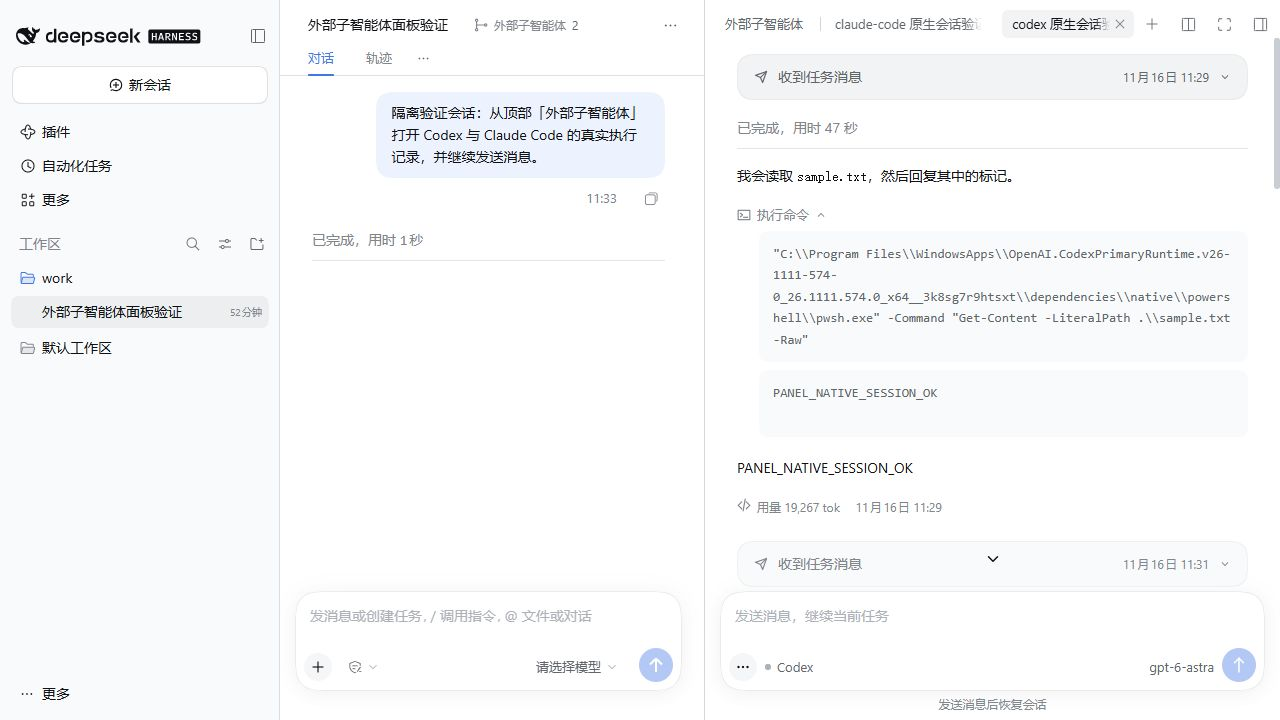
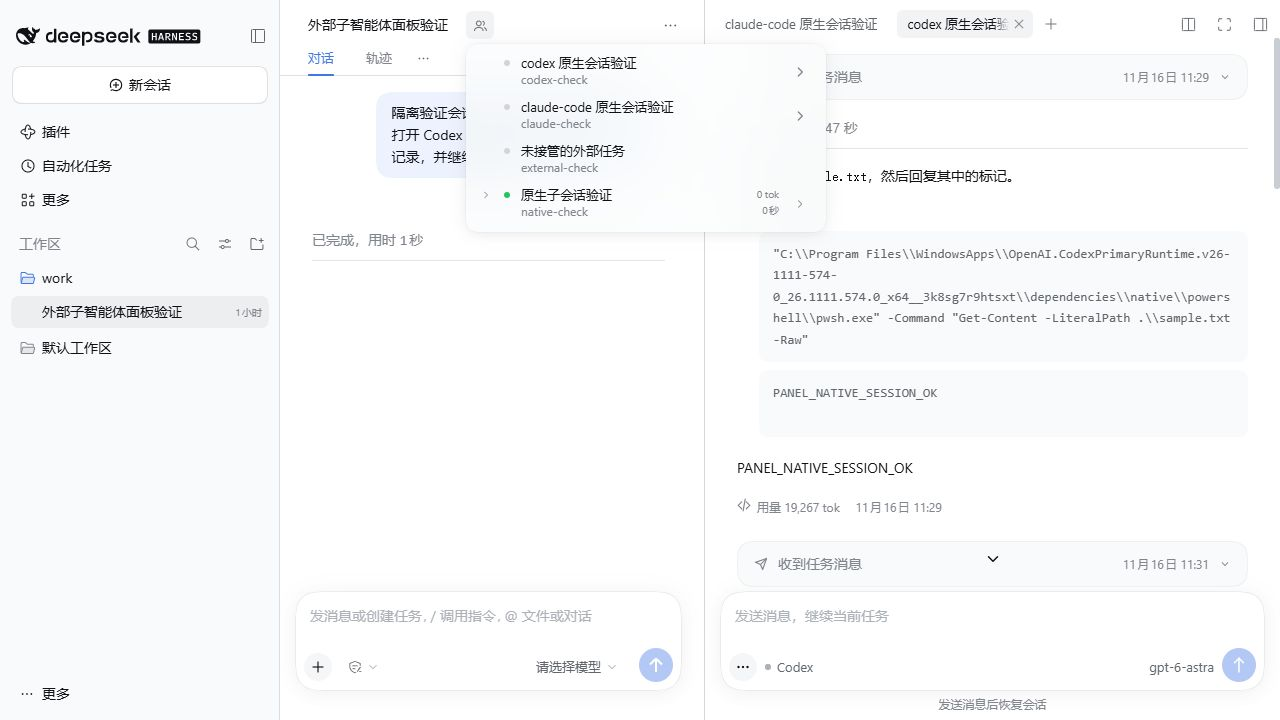
feat(ui): 将外部子智能体入口接入原生列表
- 在原生任务条目补充侧栏箭头，移除独立按钮和重复列表入口
- 支持子会话目录、嵌套任务、同名任务及键盘打开
- 更新使用文档、深浅色截图和本地验证记录

diff --git a/src/client/index.tsx b/src/client/index.tsx
@@ -6,6 +6,7 @@ import { PACKAGE, type Conversation, type ConversationSummary, type TranscriptIt
 import { endpoint, parseResource, request, resource, usePolling } from './api.js';
 import { styles } from './style.js';
 import { timeline } from './timeline.js';
+import { NativeCatalog, type CatalogProps, type LineageProps } from './catalog.js';
 
 export const name = PACKAGE;
 export const inject = ['dshLoaderUi', 'slots', 'sidebarRight', 'sidebarRightTabs'];
@@ -16,7 +17,15 @@ interface ClientContext {
 }
 interface Slots {
   inject(name: string, callback: () => (() => void)): () => void;
-  register(options: { name: string; id?: string; key?: string; order?: number }, component: React.ComponentType<any>): () => void;
+  register(options: { name: string; id?: string; key?: string; order?: number; priority?: number; inject?: (...args: any[]) => object; locale?: string }, component: React.ComponentType<any>): () => void;
+  entries(name: string): SlotEntry[];
+  subscribe(name: string, listener: () => void): () => void;
+}
+interface SlotEntry {
+  component: React.ComponentType<LineageProps>;
+  options: { id?: string; key?: string; order?: number; priority?: number };
+  inject?: (...args: any[]) => object;
+  locale?: string;
 }
 interface Sidebar {
   openResource(address: string, options: { kind: string; preferNewPane?: boolean }): void;
@@ -25,7 +34,7 @@ interface Tabs {
   register(options: { id: string; kind: string; keepMounted: boolean; patterns: string[]; title(address: string): string; canOpen(address: string): boolean }): () => void;
 }
 
-/** 通过官方槽位注册右侧标签页，以及会话标题栏和原生子智能体菜单入口。 */
+/** 通过官方槽位注册右侧标签页，并为原生目录中的外部任务补充打开入口。 */
 export function apply(ctx: ClientContext): void {
   const service = <T,>(key: string): T => {
     const value = ctx.dshLoaderUi.services?.get(key);
@@ -37,23 +46,55 @@ export function apply(ctx: ClientContext): void {
   const slots = service<Slots>('slots');
   const sidebar = service<Sidebar>('sidebarRight');
   const tabs = service<Tabs>('sidebarRightTabs');
-  const open = (parent: string, task?: ConversationSummary) => sidebar.openResource(resource(parent, task?.id, task?.title), { kind: 'external-subagent', preferNewPane: false });
-  function Launcher({ sessionId }: { sessionId: string }): React.ReactElement {
-    const { value, error } = usePolling<{ tasks: ConversationSummary[] }>(endpoint(sessionId));
-    const count = value?.tasks.filter(task => task.status === 'running' || task.status === 'starting').length ?? 0;
-    return <button type="button" className="dsp-button dsp-launcher" onClick={() => { open(sessionId); }} title={error || '在侧边栏查看 Codex 和 Claude Code 的执行过程'}>
-      <Icon name="GitBranch" size={14} /> 外部子智能体 <span className="dsp-count">{count || value?.tasks.length || 0}</span>
-    </button>;
+  const open = (parent: string, task: ConversationSummary) => sidebar.openResource(resource(parent, task.id, task.title), { kind: 'external-subagent', preferNewPane: false });
+  function Catalog(props: CatalogProps): React.ReactElement {
+    return <NativeCatalog {...props} ui={ctx.dshLoaderUi} open={open} />;
   }
-  function Footer({ sessionId }: { sessionId: string }): React.ReactElement | null {
-    const { value } = usePolling<{ tasks: ConversationSummary[] }>(endpoint(sessionId));
-    if (!value?.tasks.length) {
-      return null;
+  const decorateLineage = () => {
+    const slot = 'conversation.session.header.lineage';
+    let original: SlotEntry | undefined;
+    let decorated: React.ComponentType<LineageProps> | undefined;
+    let dispose: (() => void) | undefined;
+    let changing = false;
+    const sync = () => {
+      if (changing) { return; }
+      const entries = slots.entries(slot);
+      if (original && entries.includes(original)) { return; }
+      const entry = entries.find(entry => entry.locale === 'subagent' && entry.component !== decorated);
+      if (entry === original) { return; }
+      changing = true;
+      try {
+        dispose?.();
+        dispose = undefined;
+        original = entry;
+        if (!entry) { return; }
+        const Original = entry.component;
+        decorated = function Lineage(props: LineageProps) {
+          const address = props.useSession(state => state.subagent?.address);
+          const parent = props.useSessions(state => {
+            if (address?.childSessionId === props.lineageSessionId) { return address.parentSessionId; }
+            const owner = Object.entries(state.projectionsBySession).find(([, snapshot]) => snapshot?.values.subagentCatalog?.some(child => child.id === props.lineageSessionId));
+            if (owner) { return owner[0]; }
+            const summary = state.byId[props.lineageSessionId];
+            return summary?.origin === 'subagent' ? summary.parentId : undefined;
+          });
+          return <span data-dsp-lineage="" style={{ display: 'contents' }}><Original {...props} /><NativeCatalog {...props} sessionId={props.lineageSessionId} parentSessionId={parent} lineage ui={ctx.dshLoaderUi} open={open} /></span>;
+        };
+        dispose = slots.register({ name: slot, ...entry.options, priority: (entry.options.priority ?? 0) - 1, inject: entry.inject, locale: entry.locale }, decorated);
+      } finally {
+        changing = false;
+      }
+    };
+    const off = slots.subscribe(slot, sync);
+    try {
+      sync();
+    } catch (error) {
+      off();
+      dispose?.();
+      throw error;
     }
-    return <div className="dsp-footer">{value.tasks.slice(0, 6).map(task => <button key={task.id} type="button" className="dsp-button" onClick={() => { open(sessionId, task); }}>
-      <span className={`dsp-dot ${task.status}`} /><span className="dsp-task-title">{task.title}</span><span className="dsp-meta">{statusLabel(task.status)}</span>
-    </button>)}<button type="button" className="dsp-button" onClick={() => { open(sessionId); }}>查看全部外部子智能体</button></div>;
-  }
+    return () => { off(); dispose?.(); };
+  };
   function Tab({ useTabInfo }: { useTabInfo(): { tab: { contentId: string; visible: boolean } } }): React.ReactElement {
     const { tab } = useTabInfo();
     const address = parseResource(tab.contentId);
@@ -65,8 +106,8 @@ export function apply(ctx: ClientContext): void {
   ctx.effect(() => injectStyle(name, 'panel.css', styles), 'subagent-panel:styles');
   ctx.effect(() => tabs.register({ id: name, kind: 'external-subagent', keepMounted: true, patterns: ['dsh-resource://external-subagent/**'], title: address => parseResource(address)?.title || '外部子智能体', canOpen: address => !!parseResource(address) }), 'subagent-panel:tabs');
   ctx.effect(() => slots.inject('sidebar.right.pane.tab', () => slots.register({ name: 'sidebar.right.pane.tab', key: name }, Tab)), 'subagent-panel:body');
-  ctx.effect(() => slots.inject('conversation.session.header.actions', () => slots.register({ name: 'conversation.session.header.actions', id: name, order: 11 }, Launcher)), 'subagent-panel:launcher');
-  ctx.effect(() => slots.inject('conversation.session.header.actions.subagent.footer', () => slots.register({ name: 'conversation.session.header.actions.subagent.footer', id: name }, Footer)), 'subagent-panel:catalog');
+  ctx.effect(() => slots.inject('conversation.session.header.actions', () => slots.register({ name: 'conversation.session.header.actions', id: name, order: 11 }, Catalog)), 'subagent-panel:catalog');
+  ctx.effect(() => slots.inject('conversation.session.header.lineage', decorateLineage), 'subagent-panel:lineage');
 }
 
 function TaskList({ parent, open }: { parent: string; open(task: ConversationSummary): void }): React.ReactElement {

diff --git a/src/client/catalog.tsx b/src/client/catalog.tsx
@@ -1,0 +1,144 @@
+import * as React from 'react';
+import { createPortal } from 'react-dom';
+import { Icon, type DshLoaderUi } from '@dsh-plugin/dsh-loader/client';
+import type { ConversationSummary } from '../model.js';
+import { endpoint, usePolling } from './api.js';
+
+interface CatalogEntry {
+  id: string;
+  mode: string;
+  name?: string;
+  label?: string;
+}
+
+interface CatalogState {
+  projectionsBySession: Record<string, { values: { subagentCatalog?: CatalogEntry[] } } | undefined>;
+  byId: Record<string, { title?: string; origin?: string; parentId?: string } | undefined>;
+}
+
+/** 原生槽位提供所属会话与目录快照，避免跨会话按同名任务匹配。 */
+export interface CatalogProps {
+  sessionId: string;
+  useSessions<T>(select: (state: CatalogState) => T): T;
+}
+
+/** 原生面包屑同时展示当前子会话及其父会话的目录。 */
+export interface LineageProps extends CatalogProps {
+  lineageSessionId: string;
+  useSession<T>(select: (state: { subagent: { address: { parentSessionId: string; childSessionId: string } } | null }) => T): T;
+}
+
+interface CatalogTarget {
+  anchor: string;
+  parent: string;
+  id: string;
+  row: HTMLElement;
+  seat: Element;
+}
+
+/** 在原生外部条目的箭头预留位置挂载入口，保留宿主目录的内容与排序。 */
+export function NativeCatalog({ sessionId, useSessions, parentSessionId, lineage, ui, open }: CatalogProps & {
+  parentSessionId?: string;
+  lineage?: boolean;
+  ui: DshLoaderUi;
+  open(parent: string, task: ConversationSummary): void;
+}): React.ReactElement {
+  const marker = React.useRef<HTMLSpanElement>(null);
+  const projections = useSessions(state => state.projectionsBySession);
+  const summaries = useSessions(state => state.byId);
+  const [targets, setTargets] = React.useState<CatalogTarget[]>([]);
+  React.useLayoutEffect(() => {
+    const sync = () => {
+      const scope = marker.current?.closest(lineage ? '[data-dsp-lineage]' : '[data-slot="conversation.session.header.actions"]');
+      const next: CatalogTarget[] = [];
+      const visit = (parent: string, group: Element, anchor: string) => {
+        const entries = projections[parent]?.values.subagentCatalog ?? [];
+        const rows = Array.from(group.querySelectorAll<HTMLElement>(':scope > div > [role="treeitem"]'));
+        if (rows.length !== entries.length) {
+          return;
+        }
+        entries.forEach((entry, index) => {
+          const row = rows[index];
+          const area = row.lastElementChild;
+          const content = area?.children[1];
+          const identity = entry.mode === 'external' || entry.mode === 'continuable' ? entry.name ?? entry.id : entry.id;
+          const description = entry.label || summaries[entry.id]?.title;
+          const labels = description ? [description, identity] : [identity];
+          if (!content || content.children.length !== labels.length || labels.some((label, i) => content.children[i].textContent !== label)) {
+            return;
+          }
+          if (entry.mode === 'external') {
+            const seat = area?.lastElementChild;
+            if (seat?.tagName === 'SPAN' && !seat.hasAttribute('data-subagent-current')) {
+              next.push({ anchor, parent, id: entry.id, row, seat });
+            }
+          } else if (row.getAttribute('aria-expanded') === 'true') {
+            const children = row.parentElement?.querySelector(':scope > [role="group"]');
+            if (children) {
+              visit(entry.id, children, anchor);
+            }
+          }
+        });
+      };
+      for (const button of scope?.querySelectorAll<HTMLElement>('[data-subagent-action] button[aria-haspopup="dialog"]') ?? []) {
+        const parent = button.querySelector('[data-subagent-count]') ? sessionId : parentSessionId;
+        const anchor = button.style.getPropertyValue('anchor-name');
+        const menu = Array.from(document.querySelectorAll<HTMLElement>('[data-subagent-panel]')).find(menu => menu.style.getPropertyValue('position-anchor') === anchor);
+        const tree = menu?.querySelector('[role="tree"]');
+        if (parent && anchor && tree) {
+          visit(parent, tree, anchor);
+        }
+      }
+      setTargets(current => current.length === next.length && current.every((target, i) => target.anchor === next[i].anchor && target.parent === next[i].parent && target.id === next[i].id && target.row === next[i].row && target.seat === next[i].seat) ? current : next);
+    };
+    sync();
+    return ui.onDomSettled(sync);
+  }, [sessionId, parentSessionId, lineage, projections, summaries, ui]);
+  const parents = [...new Set(targets.map(target => target.parent))];
+  return <><span ref={marker} hidden />{parents.map(parent => <CatalogArrows key={parent} parent={parent} targets={targets.filter(target => target.parent === parent)} open={open} />)}</>;
+}
+
+function CatalogArrows({ parent, targets, open }: {
+  parent: string;
+  targets: CatalogTarget[];
+  open(parent: string, task: ConversationSummary): void;
+}): React.ReactElement {
+  const { value } = usePolling<{ tasks: ConversationSummary[] }>(endpoint(parent));
+  return <>{targets.map(target => {
+    const task = value?.tasks.find(task => task.id === target.id);
+    return task ? <CatalogArrow key={`${target.anchor}:${target.id}`} target={target} task={task} open={open} /> : null;
+  })}</>;
+}
+
+function CatalogArrow({ target, task, open }: {
+  target: CatalogTarget;
+  task: ConversationSummary;
+  open(parent: string, task: ConversationSummary): void;
+}): React.ReactPortal {
+  const activate = React.useCallback(() => {
+    open(target.parent, task);
+    target.row.dispatchEvent(new KeyboardEvent('keydown', { key: 'Escape', bubbles: true }));
+  }, [open, target, task]);
+  React.useEffect(() => {
+    const { row } = target;
+    const disabled = row.getAttribute('aria-disabled');
+    const tabIndex = row.getAttribute('tabindex');
+    const keydown = (event: KeyboardEvent) => {
+      if (event.target === row && (event.key === 'Enter' || event.key === ' ')) {
+        event.preventDefault();
+        event.stopPropagation();
+        activate();
+      }
+    };
+    row.setAttribute('aria-disabled', 'false');
+    row.tabIndex = 0;
+    row.addEventListener('keydown', keydown, true);
+    return () => {
+      row.removeEventListener('keydown', keydown, true);
+      if (disabled === null) { row.removeAttribute('aria-disabled'); } else { row.setAttribute('aria-disabled', disabled); }
+      if (tabIndex === null) { row.removeAttribute('tabindex'); } else { row.setAttribute('tabindex', tabIndex); }
+    };
+  }, [target, activate]);
+  return createPortal(<button type="button" className="dsp-catalog-arrow" aria-label={`在侧边栏打开 ${task.title}`} title="在侧边栏打开"
+    onClick={event => { event.preventDefault(); event.stopPropagation(); activate(); }} onKeyDown={event => { event.stopPropagation(); }}><Icon name="ChevronRight" size={16} /></button>, target.seat);
+}

diff --git a/src/client/style.ts b/src/client/style.ts
@@ -8,8 +8,11 @@ export const styles = `
 .dsp-button:focus-visible,.dsp-task:focus-visible,.dsp-item>summary:focus-visible{outline:1.5px solid var(--dsw-alias-state-business-primary);outline-offset:2px}
 .dsp-icon-button{flex:none;width:28px;height:28px;padding:0}
 .dsp-menu-trigger{border-radius:999px;corner-shape:round;background:var(--dsw-specific-selector);color:var(--dsw-alias-label-primary)}
-.dsp-launcher{font-size:12px;color:var(--dsw-alias-label-tertiary)}
-.dsp-count{font-variant-numeric:tabular-nums;color:var(--dsw-alias-label-secondary)}
+.dsp-catalog-arrow{box-sizing:border-box;display:inline-flex;align-items:center;justify-content:center;width:28px;height:28px;padding:6px;border:0;border-radius:var(--dsw-radius-sm);background:transparent;color:var(--dsw-alias-label-tertiary);cursor:pointer}
+.dsp-catalog-arrow>.i-icon{display:inline-flex;line-height:0}
+.dsp-catalog-arrow svg{display:block}
+.dsp-catalog-arrow:focus-visible{background:var(--dsw-alias-interactive-bg-hover);color:var(--dsw-alias-label-primary)}
+@media(hover:hover){.dsp-catalog-arrow:hover{background:var(--dsw-alias-interactive-bg-hover);color:var(--dsw-alias-label-primary)}}
 .dsp-toolbar{display:flex;align-items:center;gap:12px;padding:12px 16px;flex:none}
 .dsp-heading{min-width:0;flex:1;display:flex;align-items:center;gap:12px;font-weight:500}
 .dsp-meta{font-size:12px;font-weight:400;color:var(--dsw-alias-label-tertiary)}
@@ -69,10 +72,6 @@ export const styles = `
 .dsp-task-copy{display:flex;flex-direction:column;flex:1;min-width:0;gap:2px}
 .dsp-task-title{display:block;min-width:0;overflow:hidden;text-overflow:ellipsis;white-space:nowrap;color:var(--dsw-alias-label-primary)}
 .dsp-task time{flex:none;font-size:12px}
-.dsp-footer{display:flex;flex-direction:column;gap:2px;padding:8px}
-.dsp-footer .dsp-button{justify-content:flex-start;min-height:32px}
-.dsp-footer .dsp-task-title{flex:1;text-align:left}
-.dsp-footer .dsp-meta{white-space:nowrap}
 .dsp-follow{position:absolute;left:50%;bottom:16px;z-index:1;width:34px;height:34px;padding:0;border-radius:999px;corner-shape:round;color:var(--dsw-alias-label-primary);transform:translateX(-50%)}
 .dsp-spinning{animation:dsp-spin 800ms linear infinite}
 @media(hover:hover){.dsp-button:hover:not(:disabled),.dsp-task:hover{background:var(--dsw-alias-interactive-bg-hover)}.dsp-item-user:hover{background:var(--dsw-alias-turn-trigger-bg-hover,var(--dsw-alias-interactive-bg-hover))}.dsp-item>summary:hover{color:var(--dsw-alias-label-secondary)}.dsp-menu-trigger:hover:not(:disabled){background:var(--dsw-alias-interactive-bg-hover-solid)}.dsp-send:hover:not(:disabled){background:var(--dsw-alias-button-info-hover)}.dsp-follow:hover:not(:disabled){background:transparent}}

diff --git a/docs/verification.md b/docs/verification.md
@@ -6,7 +6,7 @@
 | --- | --- |
 | `pnpm check` | 类型检查、12 项协议及时间线回归检查和构建通过 |
 | 实际宿主加载 | 插件正常激活，无加载失败；自定义接口返回 JSON |
-| 原生右侧栏 | 标题栏入口、任务列表、多个任务标签、历史记录、工具折叠和消息输入框可用 |
+| 原生右侧栏 | 原生子智能体列表入口、多个任务标签、历史记录、工具折叠和消息输入框可用 |
 | 首轮任务 | Codex 与 Claude Code 均实际调用工具读取测试文件，面板显示参数、输出及最终回答 |
 | 同一进程续聊 | 两者第二轮均无需再次读文件即可复述首轮标记，原生会话 ID 保持不变 |
 | 释放与重启恢复 | 释放进程并重启 DSH 后，从侧栏发送第三轮消息；两者恢复原生 ID 并保留上下文 |
@@ -26,3 +26,7 @@
 新增时间线回归检查覆盖同毫秒的轮次开始、连续轮次交接、运行中追加与待处理输入。新输入区的发送请求已进入 Codex 原生会话；该次模型连接持续重试，使用停止按钮中断后状态正确回到可恢复。此项仅确认发送与停止交互，模型回复验证以此前多轮结果为准。
 
 按钮修正后重新通过 `pnpm check`，并核对深浅色主题与 335/575 像素侧栏。三点按钮为 28 像素正圆，背景与原生添加按钮一致；发送按钮为 34 像素正圆。按钮图标与消息折叠箭头的垂直中心偏差均为 0 像素。「查看最新输出」移至底部中央，与消息右侧的折叠箭头分开，悬停时仍保持透明背景且无阴影；点击后滚动到末尾并隐藏。菜单刷新操作正常，浏览器控制台无错误，深浅色截图已更新。
+
+入口合并后重新通过 `pnpm check`。在隔离宿主中验证了主会话目录、子会话自身目录、父级切换目录和展开的下级目录：Codex、Claude Code 的箭头分别打开对应侧栏记录；Enter 可直接打开当前外部任务行，打开后原生菜单关闭。没有面板记录的外部条目仍无箭头，原生子会话的导航和侧栏箭头保持可用。
+
+目录验证使用临时插件追加宿主支持的目录事件，并把既有真实执行记录复制为两个同名任务，以核对父会话与任务 ID 的关联；本轮未重新调用模型。两个原生菜单同时展开相同任务时，各行只有一个箭头；关闭其中一个菜单后，另一个仍可打开正确记录。深浅色截图已更新，浏览器控制台无错误。

diff --git a/README.md b/README.md
@@ -12,7 +12,7 @@
 
 | 功能 | 行为 |
 | --- | --- |
-| 会话入口 | 主会话标题栏显示「外部子智能体」和任务数量，点击打开任务列表 |
+| 会话入口 | 在原生「子智能体」列表的外部任务右侧补充打开箭头，保留原列表的名称、顺序和状态 |
 | 右侧标签 | 每个任务使用独立的原生侧栏标签，可切换、停靠和关闭 |
 | 完整过程 | 实时显示用户消息、中间文本、协议公开的思考摘要、工具参数、工具输出和最终回答 |
 | 运行状态 | 显示连接中、执行中、完成、停止、失败及可恢复状态，记录每轮耗时和用量 |
@@ -64,7 +64,7 @@ node $dshBin plugin --profile web add 'C:\Projects\self\dsh-plugins\dsh-subagent
 ## 使用
 
 1. 在主会话中委派 `codex` 或 `claude-code` 子任务，名称随官方插件的 `providerName` 配置变化。
-2. 点击标题栏的「外部子智能体」，选择任务。
+2. 点击标题栏原生的「N 个子智能体」，再点击对应外部任务右侧的箭头，在侧栏打开记录。子会话的目录菜单和展开后的下级目录也支持相同入口。
 3. 展开工具卡片查看参数和输出。新输出自动滚到底部，向上滚动后暂停跟随。
 4. 在底部输入消息，按 Enter 发送，Shift+Enter 换行。运行中也可以发送。
 5. 点击输入框中的停止按钮中断当前轮次；左下角的圆形三点按钮打开「会话操作」菜单，可刷新记录或释放进程。关闭标签本身不停止任务。
@@ -83,6 +83,7 @@ node $dshBin plugin --profile web add 'C:\Projects\self\dsh-plugins\dsh-subagent
 - Codex 使用固定版本 `@openai/codex@0.153.4` 的 app-server；Claude 使用 `@anthropic-ai/claude-agent-sdk@0.3.263` 的持续输入流。
 - 子进程由 DSH `subprocess` 服务持有，插件卸载时等待退出并保存记录。
 - 客户端使用官方槽位、右侧标签服务、宿主 React 和 dsh-loader 共享 UI；通过带 revision 的轮询获取增量状态，前台间隔约 750 毫秒。
+- 目录入口按父会话与任务 ID 关联记录，在原生条目的箭头预留位置挂载；没有面板记录的外部任务保持原状。插件卸载时撤销槽位包装、箭头及键盘处理。
 - `pnpm check` 执行类型检查、协议解析回归检查及构建。
 
 真实进程的多轮对话、恢复和停止结果见 [本地验证记录](docs/verification.md)。
